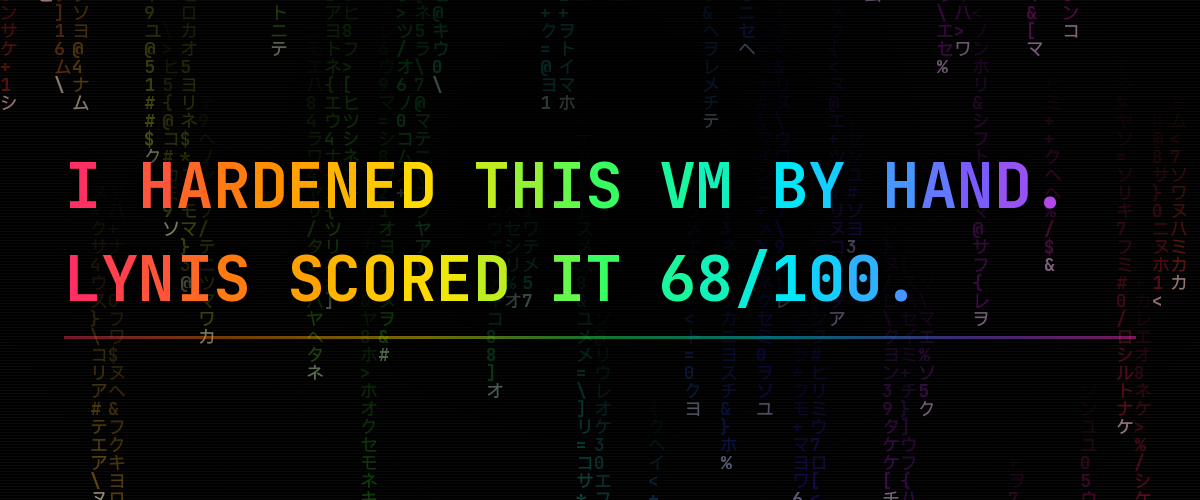
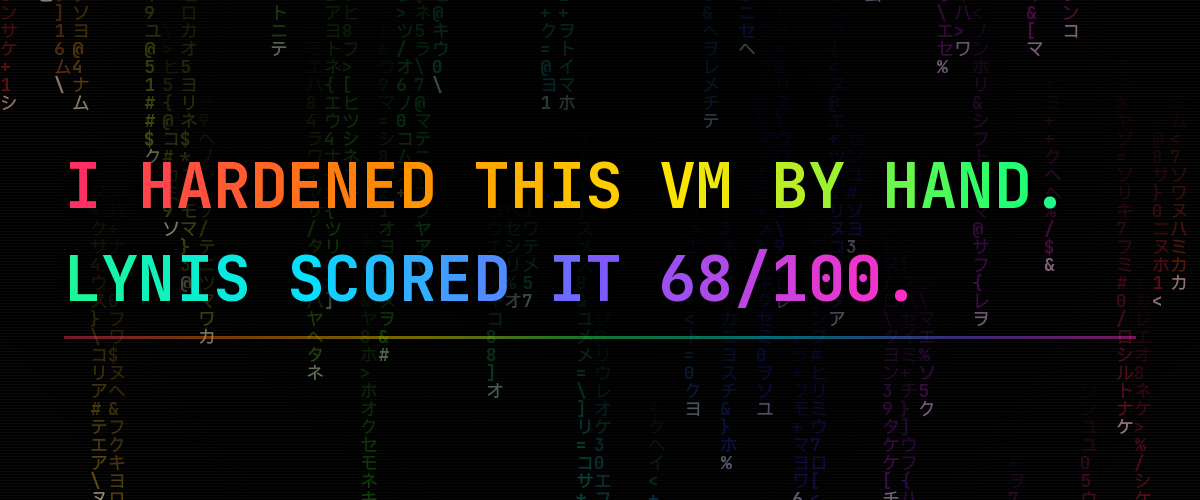
covers: RAINBOW MATRIX covers for the standalone pages
Adds covers for the 11 pages that render one — about, uses, privacy,
laptop-claude-proj and the seven taleb-ilm study notes.

Scope is limited to pages using layouts/single.html. The custom layouts
(changelog, lab, network, now, projects, stats, detections, taleb) never call the
cover partial, so generating for those would have produced files nothing renders.

hiddenInSingle is false on pages and true on posts: posts show their cover on the
list card, pages only exist as single pages and would otherwise hide it entirely.

make-matrix-cover.py now spreads the spectrum across the title's characters rather
than the image width, matching the app's RainbowHeading — short titles like "USES"
previously only reached the red end of the gradient.

Claude-Session: https://claude.ai/code/session_0182fFfUoFrYnEayytKEcGi4

diff --git a/scripts/make-matrix-cover.py b/scripts/make-matrix-cover.py
@@ -201,15 +201,22 @@ def draw_title(img, title):
 
     layer = Image.new("RGBA", img.size, (0, 0, 0, 0))
     d = ImageDraw.Draw(layer)
+
+    # Spread the spectrum over the characters, not over the image width. Sampling by x
+    # position meant a short title like "USES" only ever reached the red end of the
+    # gradient. This is what the app's RainbowHeading does — every heading gets the
+    # whole spectrum regardless of length — and it reads across wrapped lines as one run.
+    total = sum(len(l) for l in lines)
+    idx = 0
     for li, line in enumerate(lines):
         x = pad
         y = top + li * line_h
-        # Colour per character across the full width, so the spectrum reads across the
-        # whole title rather than restarting each line.
         for ch in line:
             w = d.textlength(ch, font=font)
-            d.text((x, y), ch, font=font, fill=sample_rainbow((x - pad) / max_w) + (255,))
+            t = 0.0 if total <= 1 else idx / (total - 1)
+            d.text((x, y), ch, font=font, fill=sample_rainbow(t) + (255,))
             x += w
+            idx += 1
 
     # The 1px rainbow rule under a heading — custom.css:109-118, at 45% opacity.
     rule_y = top + line_h * len(lines) + 6

diff --git a/content/laptop-claude-proj.md b/content/laptop-claude-proj.md
@@ -5,6 +5,10 @@ draft: false
 description: "Mini projects completed through Claude Code CLI on a Debian laptop — environment setup, OneDrive sync, Obsidian vault optimisation, and lab document migration."
 hideMeta: true
 ShowPostNavLinks: false
+cover:
+  image: "/images/pages/laptop-claude-proj/cover.png"
+  alt: "RAINBOW MATRIX cover — the page title in rainbow monospace over falling matrix rain on black"
+  hiddenInSingle: false
 ---
 
 A log of small projects completed using Claude Code CLI on a personal Debian laptop. Each session was self-contained — Claude handled the implementation while I directed the goal.

diff --git a/content/uses.md b/content/uses.md
@@ -7,6 +7,10 @@ hideMeta: true
 ShowToc: true
 TocOpen: false
 comments: false
+cover:
+  image: "/images/pages/uses/cover.png"
+  alt: "RAINBOW MATRIX cover — the page title in rainbow monospace over falling matrix rain on black"
+  hiddenInSingle: false
 ---
 
 Every tool here is one I actually run. Versions are whatever is installed on the box as I write

diff --git a/content/about.md b/content/about.md
@@ -37,6 +37,10 @@ skillgroups:
   - name: "Web & tooling"
     icon: "🌍"
     items: ["Hugo", "Git / GitHub", "Cloudflare Pages"]
+cover:
+  image: "/images/pages/about/cover.png"
+  alt: "RAINBOW MATRIX cover — the page title in rainbow monospace over falling matrix rain on black"
+  hiddenInSingle: false
 ---
 
 {{< authorcard >}}

diff --git a/content/privacy.md b/content/privacy.md
@@ -6,6 +6,10 @@ description: "Privacy policy for this personal blog."
 hideMeta: true
 ShowPostNavLinks: false
 ShowToc: false
+cover:
+  image: "/images/pages/privacy/cover.png"
+  alt: "RAINBOW MATRIX cover — the page title in rainbow monospace over falling matrix rain on black"
+  hiddenInSingle: false
 ---
 
 ## In Plain Terms
